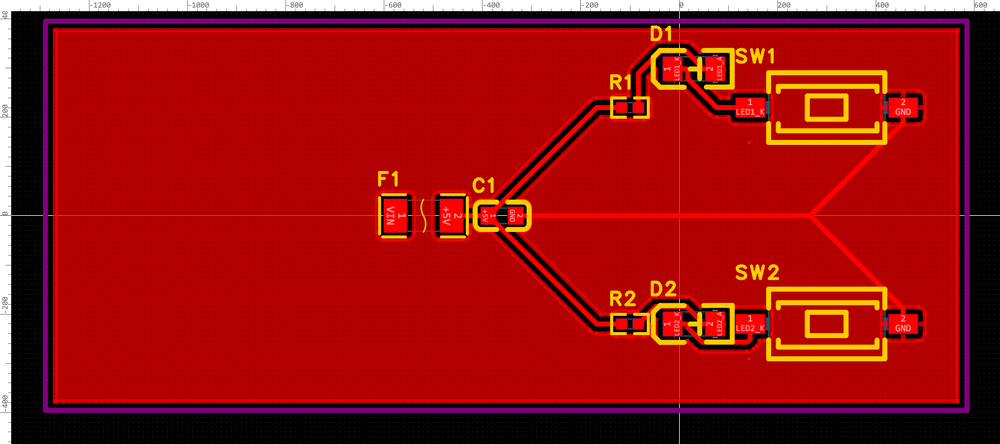
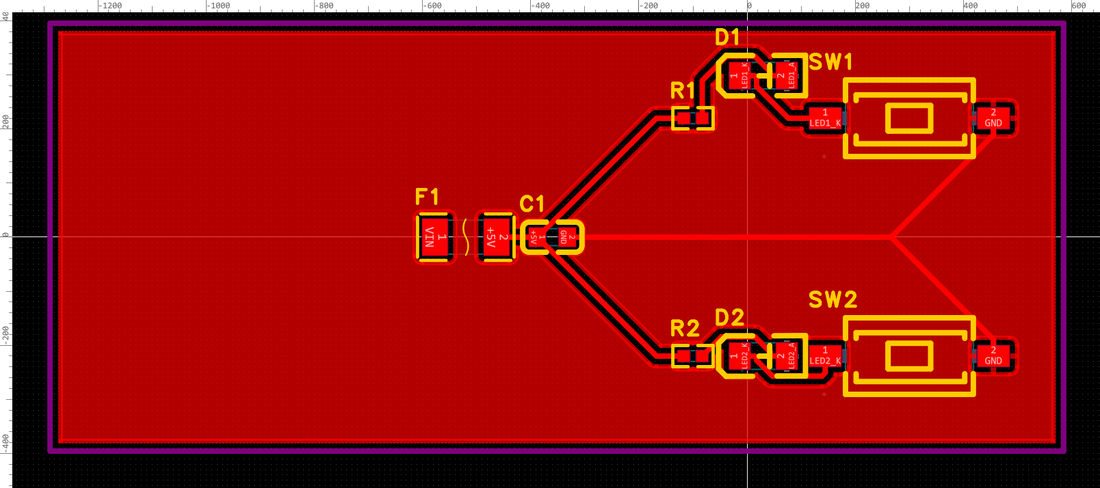
feat(connector): 1.0.7 - redraw the README demo on easycirq
Demo rebuilt from scratch with easycirq in a new project (智构 · EasyCirq 演示板
20261028): 9 parts placed in three functional groups (power input J1/F1/C1, LED
chain R1/R2/D1/D2, buttons SW1/SW2), 18 pins auto-connected with the official
autoconnect engine, title block filled; schematic drc = 0 violations.
README showcase images/GIF replaced with the new export (PCB image from the eev3
board with the same circuit, DRC 0).

Known limit recorded: sch zone-draw refused to draw the partition frames (frame
overlap / sheet margin with the current spacing), so the demo uses three grouped
rows instead of boxes for now.

Built: easycirq-connector_v1.0.7.eext (2,074,642 B), uuid ee74adcf...

diff --git a/connector/README.en.md b/connector/README.en.md
@@ -146,8 +146,8 @@ Logs: `%USERPROFILE%\.easycirq\daemon.log` (connection/request records on the da
 |---|---|
 | Extension name | `easycirq-connector` |
 | Display name | EasyCirq Connector (zh: 智构 · EasyCirq 连接器) |
-| Extension UUID | `70209f0dd9b945c0840ae95215ec7c34` (changes with every upgrade, see §5) |
-| Version | `1.0.6` |
+| Extension UUID | `ee74adcf27a643eb80653fb7a84bdefb` (changes with every upgrade, see §5) |
+| Version | `1.0.7` |
 | Required service | `easycirq-agent` (internal id of this toolchain's daemon; **not** the old `easyeda-agent`) |
 | Ports | `127.0.0.1:23111-23120` (overridable via the extension user config `easycirqDaemonPorts`) |
 | Protocol | wire `v1` (handshake / register / context / request / response / ping / pong) |

diff --git a/connector/CHANGELOG.md b/connector/CHANGELOG.md
@@ -2,6 +2,12 @@
 
 本文件记录「智构 · EasyCirq 连接器」的版本更新情况。
 
+## [1.0.7] - 2026-10-28
+
+- 演示素材重做：用 easycirq 重新新建工程绘制（原理图三组布局 + 标题栏，PCB 同电路 DRC 0）
+- README 演示图/GIF 替换为新图
+- 扩展标识：`uuid` 换新（每次发版换新规则）
+
 ## [1.0.6] - 2026-10-28
 
 - 运行时配套改名：服务标识 `easycirq-agent`、用户配置键 `easycirqDaemonPorts`（与 easycirq 运行时匹配）
